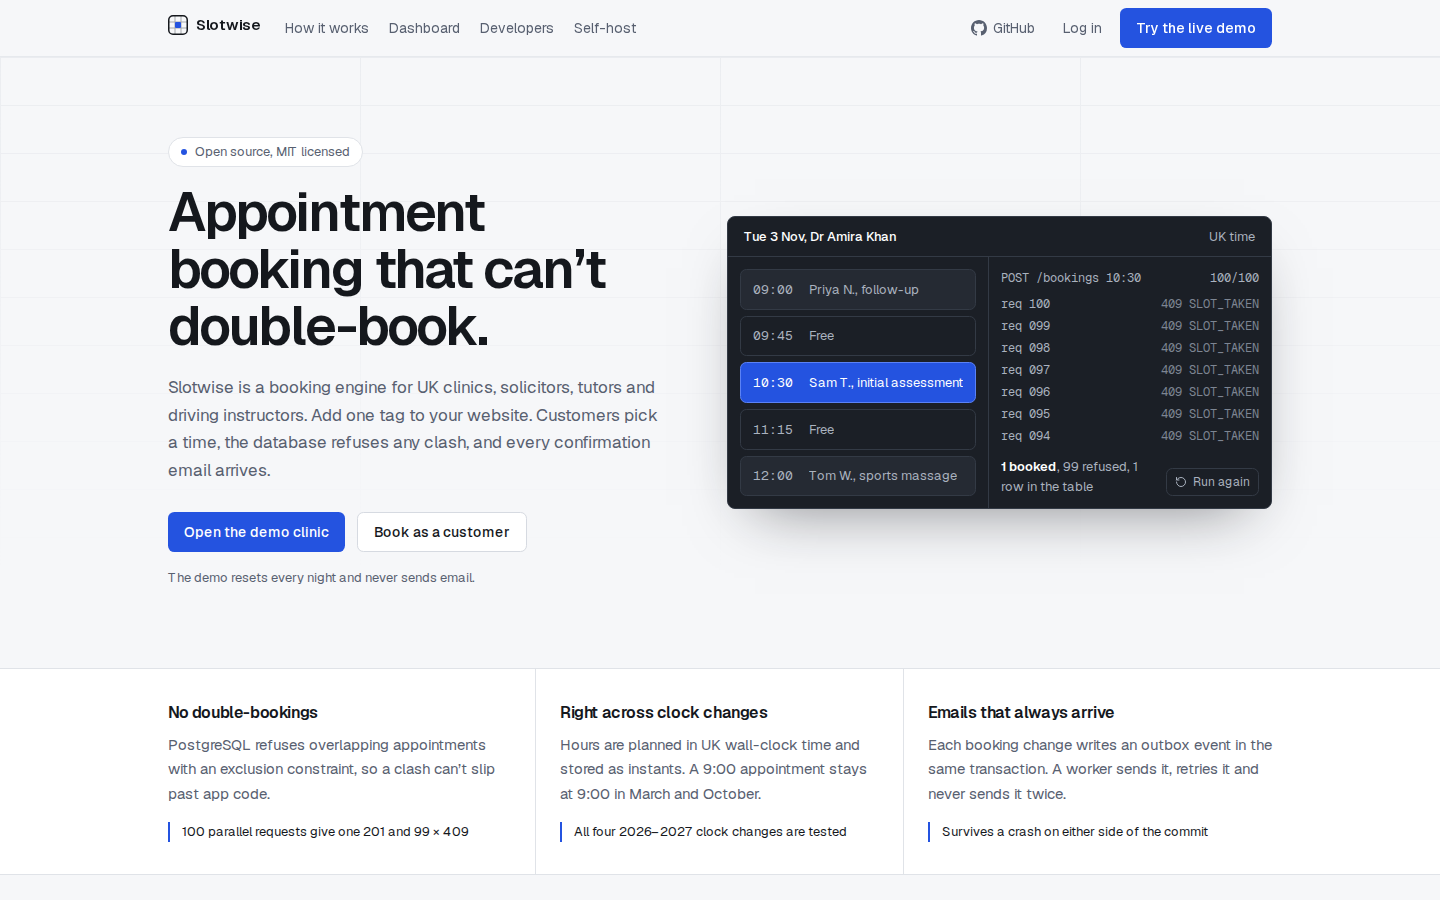
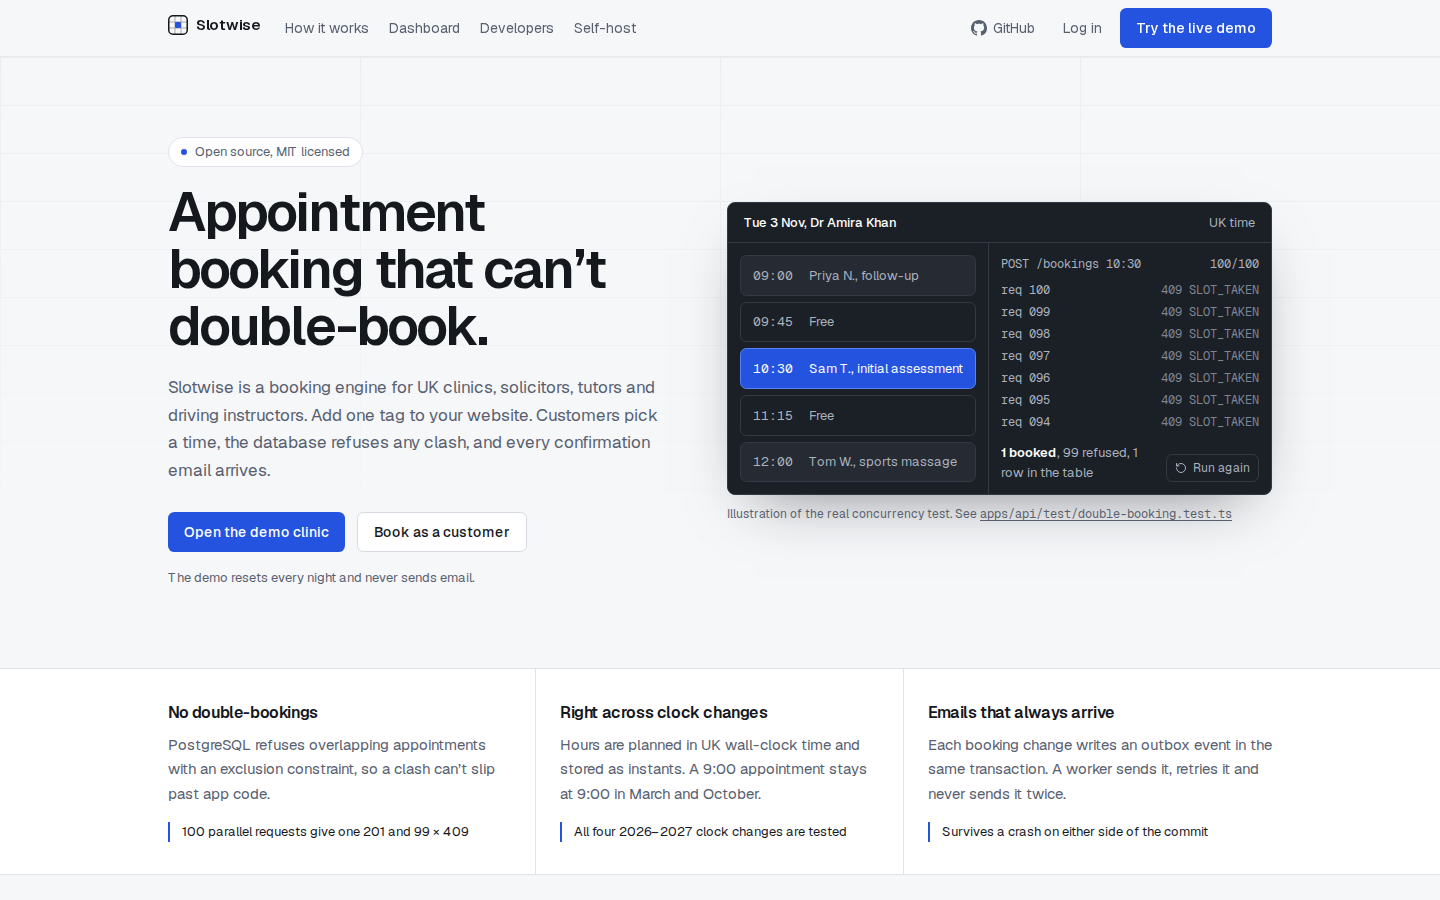
docs: CHANGELOG, CONTRIBUTING, SECURITY and a social preview card for v1.0.0
- CHANGELOG.md (Keep a Changelog) with the 1.0.0 entry.
- CONTRIBUTING.md: setup, where code belongs, tests, migrations, CI checks.
- SECURITY.md: private reporting via GitHub, 5-working-day reply, limits for
  testing the live demo.
- scripts/social-preview.mjs renders docs/images/social-preview.png.
- README: Contributing section; hero screenshot shows the new caption.

Changed region(s): [[0.5, 0.2178, 0.9062, 0.5911]]

diff --git a/CHANGELOG.md b/CHANGELOG.md
@@ -1,0 +1,54 @@
+# Changelog
+
+All notable changes to Slotwise are recorded here. The format follows [Keep a Changelog](https://keepachangelog.com/en/1.1.0/)
+and the project uses [Semantic Versioning](https://semver.org/).
+
+## [Unreleased]
+
+## [1.0.0] - 2026-11-01
+
+The first public release. Live demo: <https://slotwise.toukirahmedrony.com>.
+
+### Added
+
+- **Bookings that can't double-book.** A PostgreSQL exclusion constraint on confirmed bookings (with
+  `btree_gist`) rejects any overlap, whatever the app code does. 100 parallel requests for one slot give exactly
+  one booking and 99 `409 SLOT_TAKEN` responses. "Any staff" bookings try each free person inside savepoints.
+- **Pure slot engine** (`packages/engine`) built on Temporal: split shifts, buffers, minimum notice, booking
+  horizon, slot step and date overrides, correct across all UK clock changes (all four 2026–2027 changes are
+  tested). About 10 ms for one staff member over 30 days.
+- **REST API** (NestJS) with OpenAPI docs at `/api/docs`, a stable `errorCode` on every error, cursor
+  pagination, and required `Idempotency-Key` headers for creating and moving bookings.
+- **Owner dashboard** (Next.js): calendar (day and week), bookings list and detail with an audit trail,
+  manual bookings, customers, services, staff and who delivers what, weekly hours and time off, API keys,
+  webhooks with a delivery log, and the embed code.
+- **Booking widget**: a `<slotwise-booking>` Web Component in Shadow DOM, one file, about 5 KB gzipped,
+  that works on any website. Plus a hosted booking page at `/b/{slug}`.
+- **Customer manage link** to view, move or cancel a booking, bound by the business's cut-off.
+- **Emails that are never lost**: confirmation, reminder, cancellation and reschedule emails with `.ics`
+  invites, sent by a separate worker through a transactional outbox, deterministic job ids and a send log.
+- **Signed webhooks** with retries, a delivery log and SSRF protection (resolved-IP checks, no redirects).
+- **Roles and tenancy**: owners and staff, with every query scoped to one business; staff see only their own
+  diary.
+- **Privacy**: customer erasure and a daily retention clean-up (24 months by default); nothing personal or
+  secret is logged.
+- **Public demo mode** (`PUBLIC_DEMO=true`): sign-up, invite acceptance and password reset return
+  `403 DEMO_MODE` and are hidden in the UI, and mail only goes to the log. A demo clinic is re-seeded every night
+  with the past week and the next fortnight of bookings, including their history.
+- **Deploy script** for one Linux server with PM2: builds locally, uploads a release, dumps the database before
+  migrations, switches atomically and rolls back if the health check fails.
+- **CI** on PostgreSQL 16 and 18: typecheck, lint, 176 tests (49 engine, 7 web, 120 API against real
+  PostgreSQL and Redis) and build.
+
+### Security
+
+- Passwords hashed with argon2id; rotating refresh tokens with reuse detection in `httpOnly`, `Secure`,
+  `SameSite=Lax` cookies; same-origin checks on cookie-authenticated writes.
+- API keys, refresh tokens, email tokens and manage links stored as SHA-256 hashes; webhook secrets encrypted with
+  AES-256-GCM.
+- Rate limits on login, sign-up, password reset, public availability, public booking and API keys.
+- Every form posts with `method="post"` and stays disabled until the page is interactive, so form data can never
+  end up in a URL.
+
+[Unreleased]: https://github.com/ToukirOfficial/slotwise/compare/v1.0.0...HEAD
+[1.0.0]: https://github.com/ToukirOfficial/slotwise/releases/tag/v1.0.0

diff --git a/CONTRIBUTING.md b/CONTRIBUTING.md
@@ -1,0 +1,53 @@
+# Contributing to Slotwise
+
+Thanks for helping. Bug reports, fixes, docs and small focused features are all welcome.
+
+## Before you start
+
+- **Bugs:** open an issue with the steps to reproduce, what you expected and what happened. For anything
+  security-related, don't open an issue: see [SECURITY.md](SECURITY.md).
+- **Features:** open an issue first and describe the problem it solves, so we can agree on the approach before
+  you write code. Slotwise stays deliberately small: one server, PostgreSQL, Redis, no Docker, no paid services.
+
+## Set up
+
+You need Node.js 24, pnpm, PostgreSQL 16 or newer and Redis.
+
+```bash
+git clone https://github.com/ToukirOfficial/slotwise.git && cd slotwise
+pnpm run setup   # .env with fresh secrets, install, create slotwise_dev + slotwise_test, migrate, seed the demo
+pnpm dev         # web http://localhost:8015 · API http://localhost:8115 · worker
+```
+
+No email is sent locally: every message is written to `tmp/mail/*.eml`.
+
+## Make your change
+
+- **Where things go:** business rules, auth and permissions live in the NestJS API (`apps/api`). The Next.js
+  app (`apps/web`) only displays. Slot logic belongs in the pure engine (`packages/engine`), and request and
+  response shapes in `packages/shared` (Zod schemas shared by the API, the docs and the frontend).
+- **Tests:** add or update a test for every behaviour change. API tests run against real PostgreSQL and Redis
+  (no database mocks); engine tests are plain unit tests. Keep them about what matters, not coverage numbers.
+- **Database changes:** add a Prisma migration (`pnpm --filter @slotwise/api exec prisma migrate dev`). Never edit
+  a migration that has been released.
+- **Decisions:** if you make a non-obvious design choice, add a short note to [`docs/decisions/`](docs/decisions).
+- **Never commit secrets** or a real `.env`. Use fictional people in fixtures (`example.com` addresses, Ofcom's
+  drama phone numbers such as `07700 900123`).
+
+## Check it
+
+Run exactly what CI runs (CI also repeats it on PostgreSQL 16 and 18):
+
+```bash
+pnpm typecheck && pnpm lint && pnpm test && pnpm build
+```
+
+## Open a pull request
+
+- Keep it focused: one change per pull request.
+- Use [Conventional Commits](https://www.conventionalcommits.org/) for commit messages, as the history does:
+  `feat(api): …`, `fix(web): …`, `docs: …`, `chore: …`.
+- Describe what changed and why, and how you tested it. Add a line under `[Unreleased]` in
+  [CHANGELOG.md](CHANGELOG.md) for anything a user would notice.
+
+By contributing, you agree that your work is released under the [MIT licence](LICENSE).

diff --git a/SECURITY.md b/SECURITY.md
@@ -1,0 +1,37 @@
+# Security policy
+
+## Supported versions
+
+| Version | Supported |
+|---|---|
+| 1.x | Yes |
+| < 1.0 | No |
+
+Security fixes go into the latest 1.x release.
+
+## Reporting a vulnerability
+
+Please **don't open a public issue**. Report it privately through GitHub:
+**[Report a vulnerability](https://github.com/ToukirOfficial/slotwise/security/advisories/new)**
+(the repository's Security tab → *Report a vulnerability*).
+
+Include what you found, the steps to reproduce it and the impact you expect. You'll get a reply within
+**5 working days**. Once a fix is ready, it's released and the advisory is published, with credit to you if you'd
+like it.
+
+## Testing against the live demo
+
+<https://slotwise.toukirahmedrony.com> is a public demo on a shared server. You're welcome to look for
+vulnerabilities there within these limits:
+
+- Only use the demo account and the demo clinic. Don't try to reach other sites on the server.
+- No denial-of-service, load testing or automated scanning that sends large volumes of requests.
+- Don't try to send email or webhooks to third parties.
+
+For anything heavier, run your own copy locally (see the [README](README.md#run-it-locally)).
+
+## How Slotwise protects data
+
+The README's [Security section](README.md#security) lists the measures in place: argon2id passwords, rotating
+refresh tokens with reuse detection, hashed tokens and API keys, encrypted webhook secrets, rate limits, webhook
+SSRF protection, same-origin checks on cookie-authenticated writes, and no personal data in logs.

diff --git a/README.md b/README.md
@@ -75,6 +75,7 @@ A business adds one script tag and one HTML tag to its website. Its customers ca
 - [Security](#security)
 - [Tests](#tests)
 - [Decisions](#decisions)
+- [Contributing](#contributing)
 
 ## Run it locally
 
@@ -331,6 +332,11 @@ Short notes on the non-obvious choices, in [`docs/decisions/`](docs/decisions):
 [outbox and worker](docs/decisions/0005-outbox-and-worker.md) ·
 [Web Component widget](docs/decisions/0006-web-component-widget.md) ·
 [webhook security](docs/decisions/0007-webhook-security.md)
+
+## Contributing
+
+Issues and pull requests are welcome: see [CONTRIBUTING.md](CONTRIBUTING.md). Please report security issues
+privately as described in [SECURITY.md](SECURITY.md). Release notes are in [CHANGELOG.md](CHANGELOG.md).
 
 ## License
 
